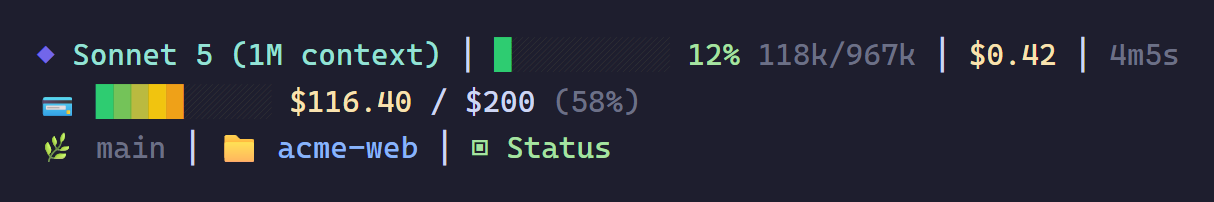
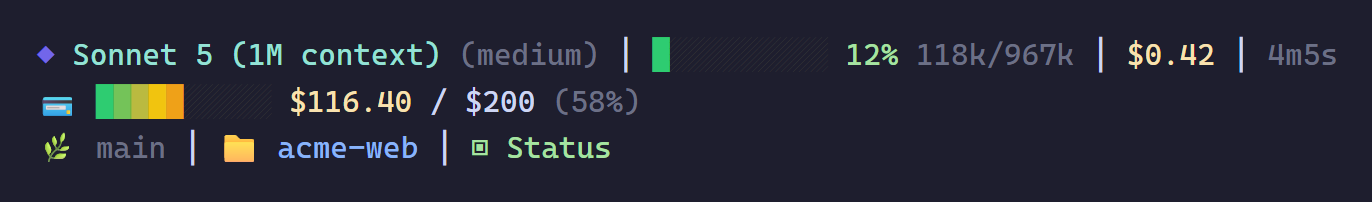
Show the reasoning effort level after the model name
Claude Code passes the live effort as effort.level; it's omitted for
models that don't support the effort parameter, so nothing is shown then.

diff --git a/README.md b/README.md
@@ -12,7 +12,7 @@ It's plain bash + `jq`, works on macOS, Linux and Windows (Git Bash), and never 
 
 | Segment | Meaning |
 | --- | --- |
-| `◆ Opus 5` | Current model |
+| `◆ Opus 5 (high)` | Current model and its reasoning effort (`low` to `max`). The effort is hidden when the model doesn't support it. |
 | Context bar + `37%` | Context used, **scaled so 100% = the auto-compact threshold** (window size minus a 33k buffer), not the raw window. It tells you how long until compaction. Green → yellow → orange → red, with a `⚠` at 90%. |
 | `62k/167k 200k` | Tokens in context / compact threshold, plus the window size |
 | `✓ cache 4m` | Prompt cache time-to-live. Turns yellow in the last 30s and red (`✗ cache`) once cold. Hidden if Claude Code doesn't report it. |
